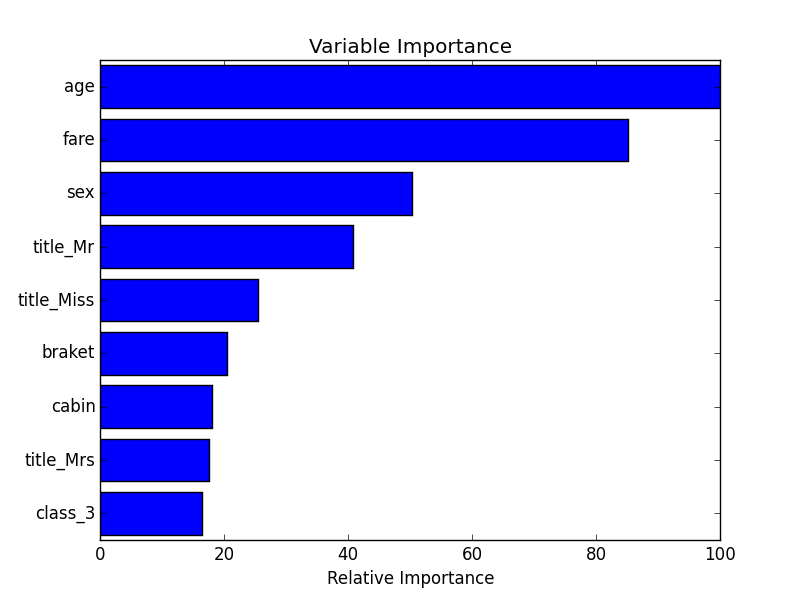
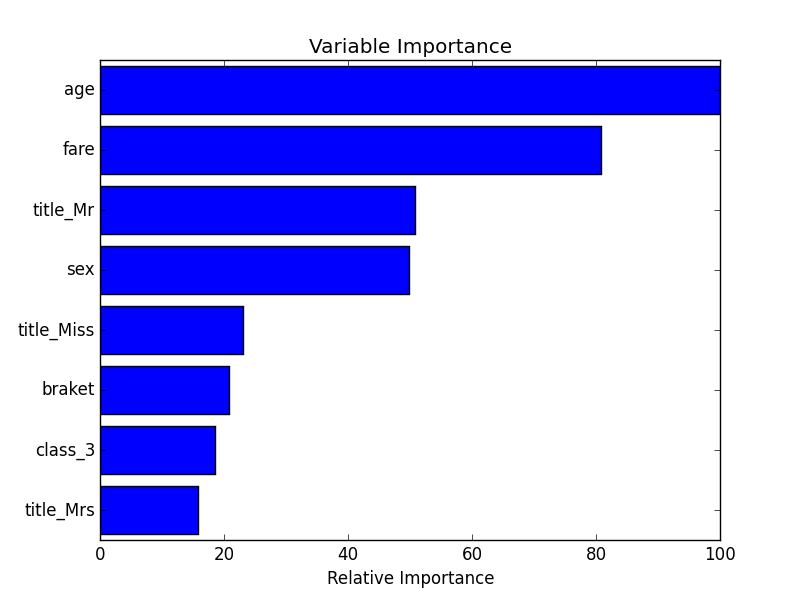
another try

diff --git a/preprocessing/preprocess.py b/preprocessing/preprocess.py
@@ -61,7 +61,7 @@ def names_to_title(df):
     # create a new dataframe
     Title = pd.Series(df['Name'].str.extract('.*,\s?\w*?\s?(\w+)\..*'), name='title')
     # group titles as per the observations
-    Title[Title.isin(['Lady', 'Countess'])] = 'Lady'
+    Title[Title.isin(['Lady', 'Countess', 'Dona'])] = 'Lady'
     Title[Title.isin(['Rev', 'Dr', 'Jonkheer', 'Major', 'Master', 'Capt', 'Col', 'Don'])] = 'Sir'
     Title[Title.isin(['Mlle', 'Ms', 'Miss'])] = 'Miss'
     Title[Title.isin(['Mrs', 'Mme'])] = 'Mrs'
@@ -157,14 +157,26 @@ def fill_has_cabin(df):
     return HasCabin.fillna('').map(lambda x: len(str(x).split()))
 
 
-def fill_cabin_deck(df):
+def fill_cabin_deck(df, train):
     '''
     returns the deck where the cabin is located.
     This is exctracting the first letter of the cabin.
     When no cabin, set emtpy
     '''
     CabinDeck = pd.Series(df['Cabin'], name='deck')
-    return CabinDeck.map(lambda x: '' if pd.isnull(x) else str(x)[0])
+    # missing decks are coded NA
+    CabinDeck = CabinDeck.map(lambda x: 'NA' if pd.isnull(x) else str(x)[0])
+    if train:
+        # we're training the model, so we'll save the decks we found
+        # and use it when preprocessing the test data
+        train_decks = pd.unique(CabinDeck)
+        joblib.dump(train_decks, './vars/train_decks.pkl')
+    else:
+        train_decks = joblib.load('./vars/train_decks.pkl')
+        # we replace the decks we don't know about by "unknown"
+        CabinDeck[~CabinDeck.isin(train_decks)] = 'unknown'
+        pass
+    return CabinDeck
 
 def fill_port(df, train):
     '''
@@ -241,9 +253,6 @@ def main():
     # and flatten
     Family = flatten_feature(Family)
     if train:
-        # add a family_unkown column with 0s (as we know all the families
-        # from the train set)
-        Family['family_unknown'] = 0
         # save family features
         joblib.dump(Family.keys(), './vars/families_features.pkl')
     else:
@@ -251,9 +260,14 @@ def main():
         # and set them to 0
         # (that's to have the same number of features)
         families_features = joblib.load('./vars/families_features.pkl')
-        missing_indexes = families_features[~np.in1d(families_features, Family.keys())]
+        missing_indexes = families_features[
+            ~np.in1d(families_features, Family.keys())
+        ]
         for i in missing_indexes:
             Family[i] = 0
+        # also unknown families are not needed, as we don't have
+        # any information on them anyway
+        Family = Family.drop('family_unknown', 1)
     # fill missing ages using a linear regression model
     Age = fill_missing_ages(df, train)
 
@@ -268,9 +282,23 @@ def main():
     HasCabin = fill_has_cabin(df)
 
     # get a feature to get the cabin deck
-    CabinDeck = fill_cabin_deck(df)
+    CabinDeck = fill_cabin_deck(df, train)
     # and flatten this
     CabinDeck = flatten_feature(CabinDeck)
+    if train:
+        # save decks that we know about
+        joblib.dump(CabinDeck.keys(), './vars/decks_features.pkl')
+    else:
+        # we must add the descks from the train set
+        decks_features = joblib.load('./vars/decks_features.pkl')
+        missing_indexes = decks_features[
+            ~np.in1d(decks_features, CabinDeck.keys())
+        ]
+        for i in missing_indexes:
+            CabinDeck[i] = 0
+            # also remove unknown decks
+            if 'deck_unknown' in CabinDeck.keys():
+                CabinDeck = CabinDeck.drop('deck_unknown', 1)
 
     # fill the embarkment port
     Port = fill_port(df, train)
@@ -301,11 +329,33 @@ def main():
     Fare = pd.Series(scaler_fare.transform(Fare), name='fare')
 
     # create a new dataframe with the engineered features
+    new_df = pd.concat([
+        Pclass,
+        Title,
+        Bracket,
+        Family,
+        Sex,
+        Age,
+        Siblings,
+        Parents,
+        Fare,
+        HasCabin,
+        CabinDeck,
+        Port
+    ], axis=1)
+
     if train:
-        new_df = pd.concat([Survived, Pclass, Title, Bracket, Family, Sex, Age, Siblings, Parents, Fare, HasCabin, Port], axis=1)
+        # add the survived feature for training
+        new_df = pd.concat([
+            Survived,
+            new_df
+        ], axis=1)
     else:
         # passenger ID is needed to build the submission file
-        new_df = pd.concat([df['PassengerId'], Pclass, Title, Bracket, Family, Sex, Age, Siblings, Parents, Fare, HasCabin, Port], axis=1)
+        new_df = pd.concat([
+            df['PassengerId'],
+            new_df
+            ], axis=1)
 
     # save data
     new_df.to_csv(os.path.join('.', 'output', os.path.basename(input_file)), sep=',', encoding='utf-8', index=False)

diff --git a/modeling/train_random_forest.py b/modeling/train_random_forest.py
@@ -50,12 +50,16 @@ def main():
 
     loop = True
     while(loop):
-        # split training set for cross validation
-        X_train, X_test, y_train, y_test = cross_validation.train_test_split(X, y)
 
         # random forest
         model_random_forest = RandomForestClassifier(n_estimators=1000)
-        model_random_forest.fit(X_train, y_train)
+        score_random_forest = 0
+        while score_random_forest < 0.84:
+            # split training set for cross validation
+            X_train, X_test, y_train, y_test = cross_validation.train_test_split(X, y)
+            model_random_forest.fit(X, y)
+            score_random_forest = model_random_forest.score(X_test, y_test)
+            print 'Random Forest - R-squared:', score_random_forest
         feature_importances = model_random_forest.feature_importances_
 
         # make importances relative to max importance
@@ -90,8 +94,6 @@ def main():
         #plt.show()
         plt.savefig('./features.png')
 
-        score_random_forest = model_random_forest.score(X_test, y_test)
-        print 'Random Forest - R-squared:', score_random_forest
 
         if user_yes_no_query("Save models to disk ? "):
 
